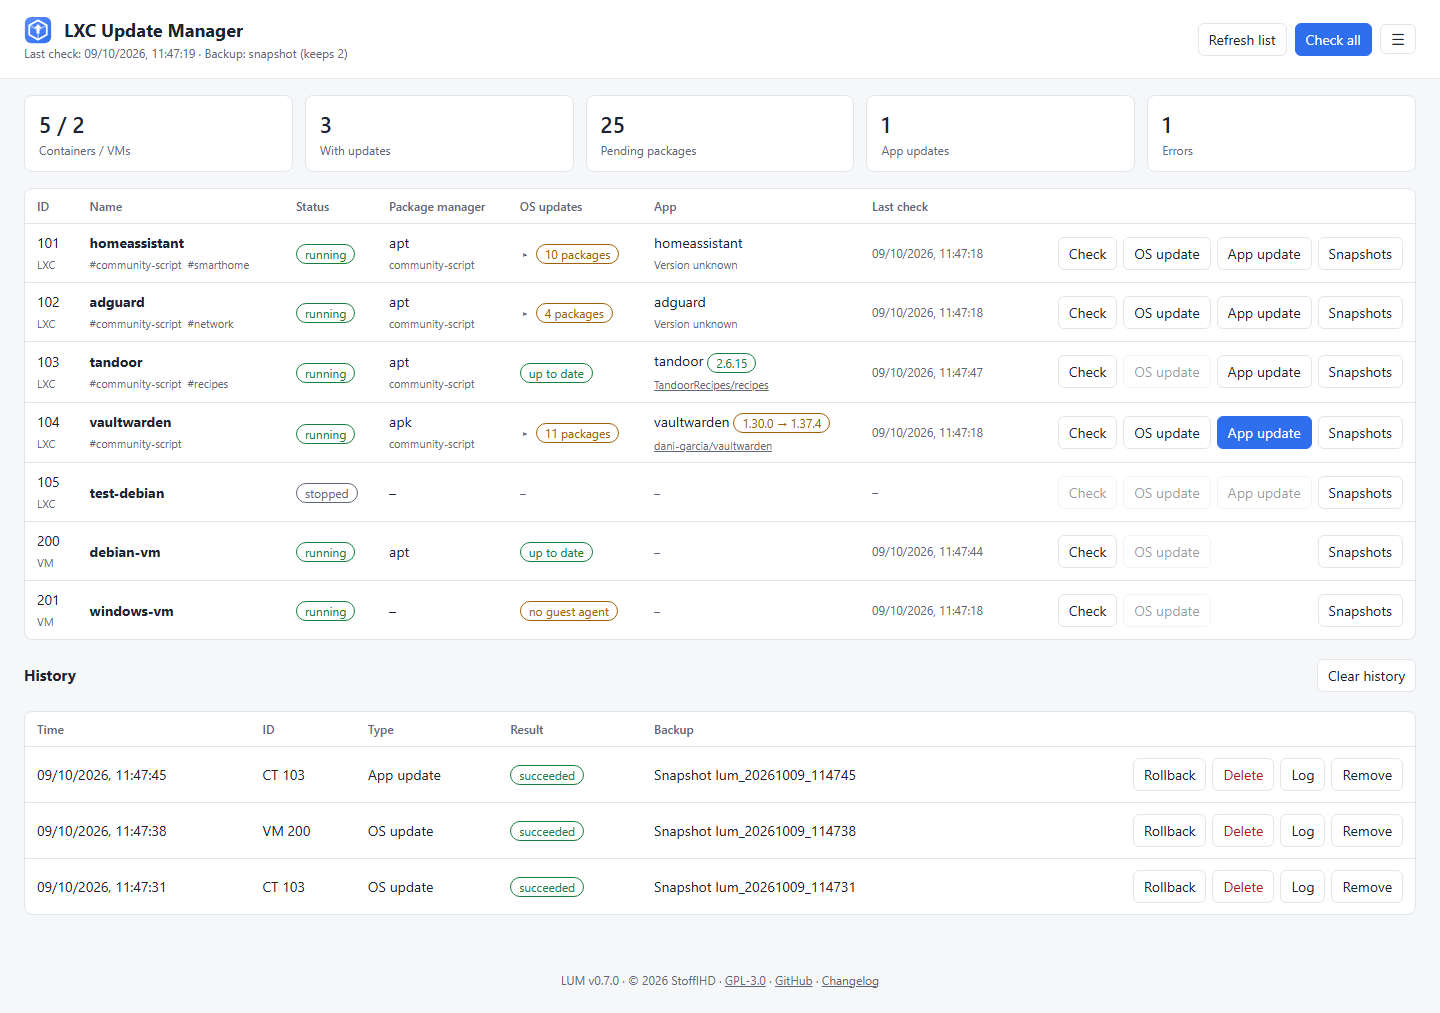
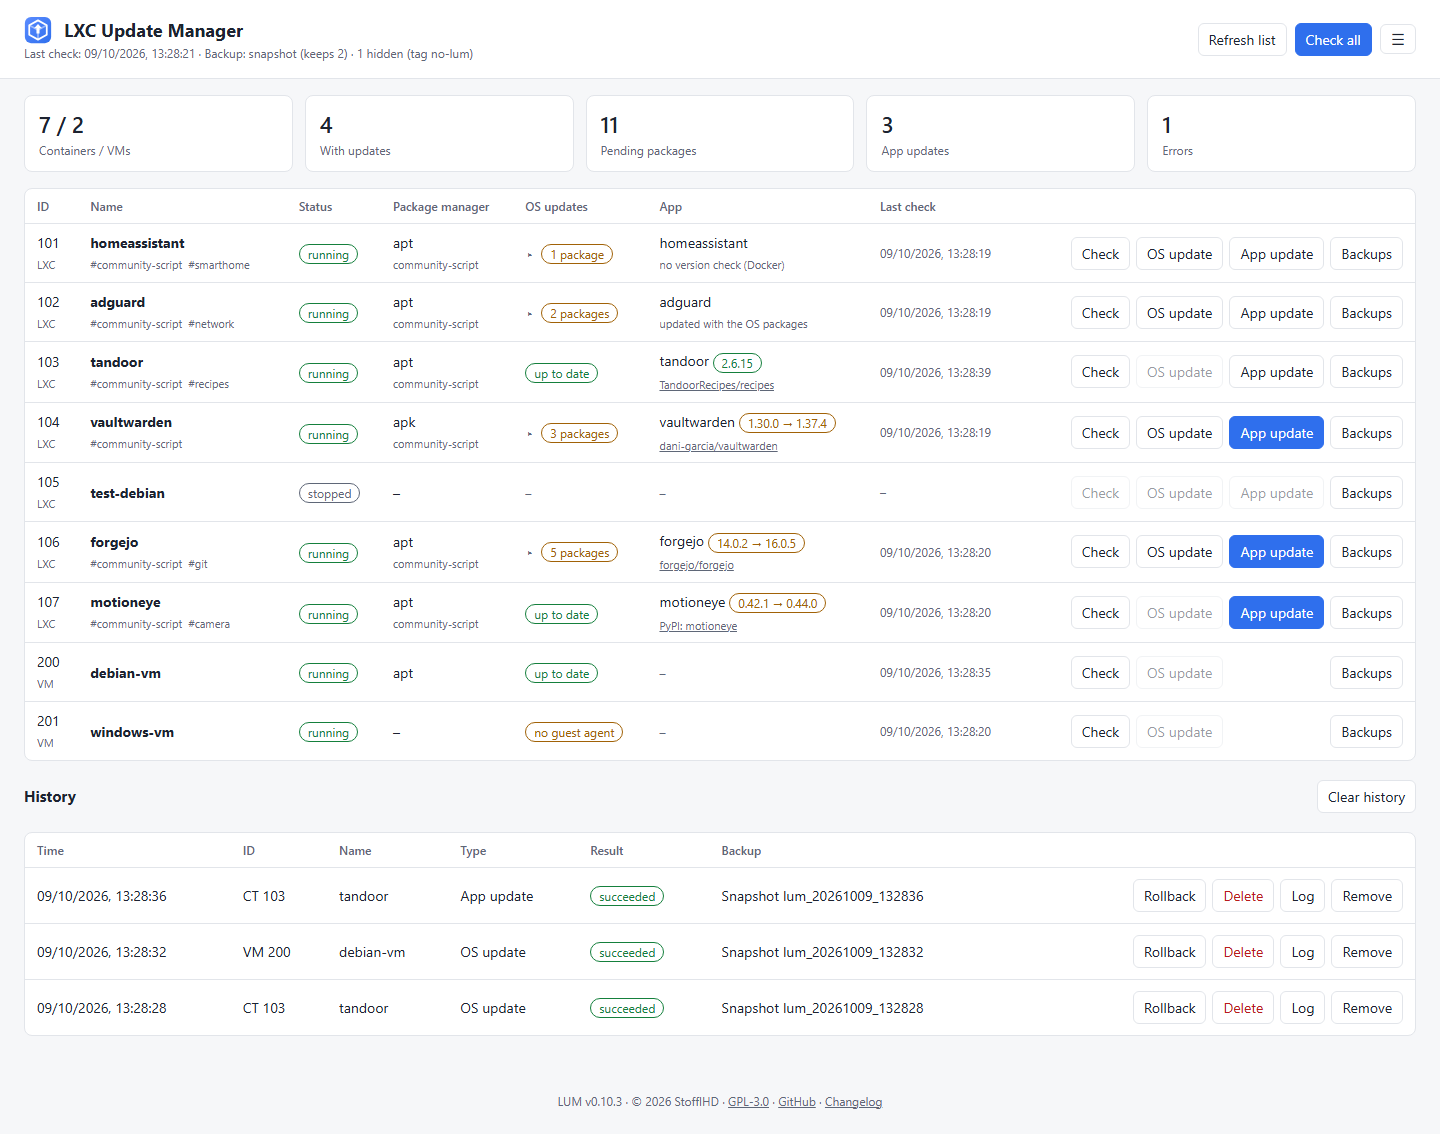
docs: bring README and docs up to date with 0.10.x
- New screenshots (Backups button, history name column) and a Backups dialog one
- Usage: history name column, delete progress; configuration: LUM_SECRET_FILE;
  development: demo backups and vzdump; API: name in the history

diff --git a/docs/usage.md b/docs/usage.md
@@ -17,7 +17,8 @@
 | | **OS update** | Opens the update dialog (with the backup checkbox), then runs apt/apk with a live log. |
 | | **App update** | Community-script app update (containers only; not shown for VMs). Highlighted when a newer app version exists. |
 | | **Backups** | The guest's LUM snapshots (**Rollback**, **Delete**) and vzdump backups (**Restore**, **Delete**) – see [Backup, cleanup and rollback](#backup-cleanup-and-rollback). |
-| History | **Rollback** · **Delete** | Roll back to / delete the snapshot made before that update. With vzdump: **Delete** removes the backup made before that update (not protected ones). |
+| History | `ID` · Name | Guest of the entry; the name stays visible after the guest was removed. |
+| | **Rollback** · **Delete** | Roll back to / delete the snapshot made before that update. With vzdump: **Delete** removes the backup made before that update (not protected ones). |
 | | **Log** · **Remove** | Show the stored log / remove the entry (the snapshot or backup is kept). |
 | | **Clear history** | Removes all finished entries (running updates stay; snapshots and backups are kept). |
 
@@ -132,11 +133,13 @@ has finished, so the log of a VM update appears at the end. App updates are LXC 
   VM disks go back to their original storages. Everything since the backup is lost and
   Proxmox deletes the guest's snapshots – the history marks them as removed. The restore
   runs as a job with a live log and shows up in the history as **Restore**.
-- Deleting a snapshot or backup can take a while; the button and a panel bottom right show
-  it with the elapsed time until it is done.
 - **Delete** (vzdump) removes the backup from the storage. Backups **protected** in
   Proxmox are shown but can't be deleted; remove the protection in Proxmox first.
 - Backups made by your own backup jobs never appear and can't be restored or deleted by LUM.
+- Deleting a snapshot or backup can take a while. Proxmox reports no percentage, so the
+  button and a panel bottom right show the elapsed time until it is done.
+
+<img alt="Backups dialog with LUM snapshots and vzdump backups" src="images/backups.png" width="70%">
 
 ## Login
 

diff --git a/docs/api.md b/docs/api.md
@@ -25,6 +25,6 @@ the header `X-Requested-With: lum`.
 | GET | `/api/containers/{id}/backups` | The guest's LUM vzdump backups: `id` (= ctime), `volid`, `storage`, `ctime`, `size`, `protected` |
 | DELETE | `/api/containers/{id}/backups/{backup_id}` | Delete one LUM vzdump backup (not protected ones) |
 | POST | `/api/containers/{id}/restore?backup={backup_id}` | Restore the guest from a LUM vzdump backup → job |
-| GET | `/api/history` · `/api/history/{id}/log` | History / stored log |
+| GET | `/api/history` · `/api/history/{id}/log` | History (with the guest `name`) / stored log |
 | DELETE | `/api/history/{id}` · `/api/history` | Remove one / all finished entries (snapshots and backups are kept) |
 | DELETE | `/api/history/{id}/backup` | Delete the vzdump backup made before that update; `deleted: null` if it no longer exists |

diff --git a/docs/development.md b/docs/development.md
@@ -23,5 +23,7 @@ internet access. The simulated guests cover the main cases:
 | 108 | backup-server | tagged `no-lum` – hidden |
 | 200 / 201 | debian-vm / windows-vm | VM with guest agent / without (*no guest agent*) |
 
-Updates, snapshots, rollback and cleanup are simulated in memory (reset on restart), the
-database is real (`LUM_DB_PATH`).
+Updates, snapshots, vzdump backups (103 and 200 start with some, one of them protected),
+rollback, restore and cleanup are simulated in memory (reset on restart); deletes take a
+few seconds like on a real host. The database is real (`LUM_DB_PATH`). For vzdump instead
+of snapshots set `LUM_BACKUP_MODE=vzdump` and `LUM_BACKUP_STORAGE=pbs`.

diff --git a/docs/configuration.md b/docs/configuration.md
@@ -43,6 +43,7 @@ running.
 | `LUM_BACKUP_VZDUMP_MODE` | `snapshot` | vzdump mode: `snapshot`, `suspend` or `stop` |
 | `LUM_BACKUP_KEEP` | `2` | LUM vzdump backups kept per guest |
 | `LUM_AUTH_FILE` | `data/auth.json` | Login (set with `python -m app.passwd`) |
+| `LUM_SECRET_FILE` | `data/secret.key` | Key that signs the session cookies (created automatically) |
 | `LUM_SESSION_HOURS` | `12` | Session lifetime |
 | `LUM_AUTH_DISABLED` | `false` | Turn off the login (only behind an authenticating proxy) |
 | `LUM_COOKIE_SECURE` | `false` | Force the `Secure` cookie flag (automatic behind a trusted HTTPS proxy) |

diff --git a/CHANGELOG.md b/CHANGELOG.md
@@ -17,6 +17,11 @@ Update an installation with `update` inside the LUM container. When an entry say
   title). The name is stored with each entry, so it stays visible after the guest was
   removed; existing entries get the name of guests that still exist.
 
+### Documentation
+- New screenshots (Backups button, name column in the history) and one of the Backups
+  dialog; usage: history name column, delete progress; configuration: `LUM_SECRET_FILE`;
+  development: what the demo simulates for backups and how to try vzdump.
+
 ## [0.10.2] – 2026-10-09
 
 ### Changed
